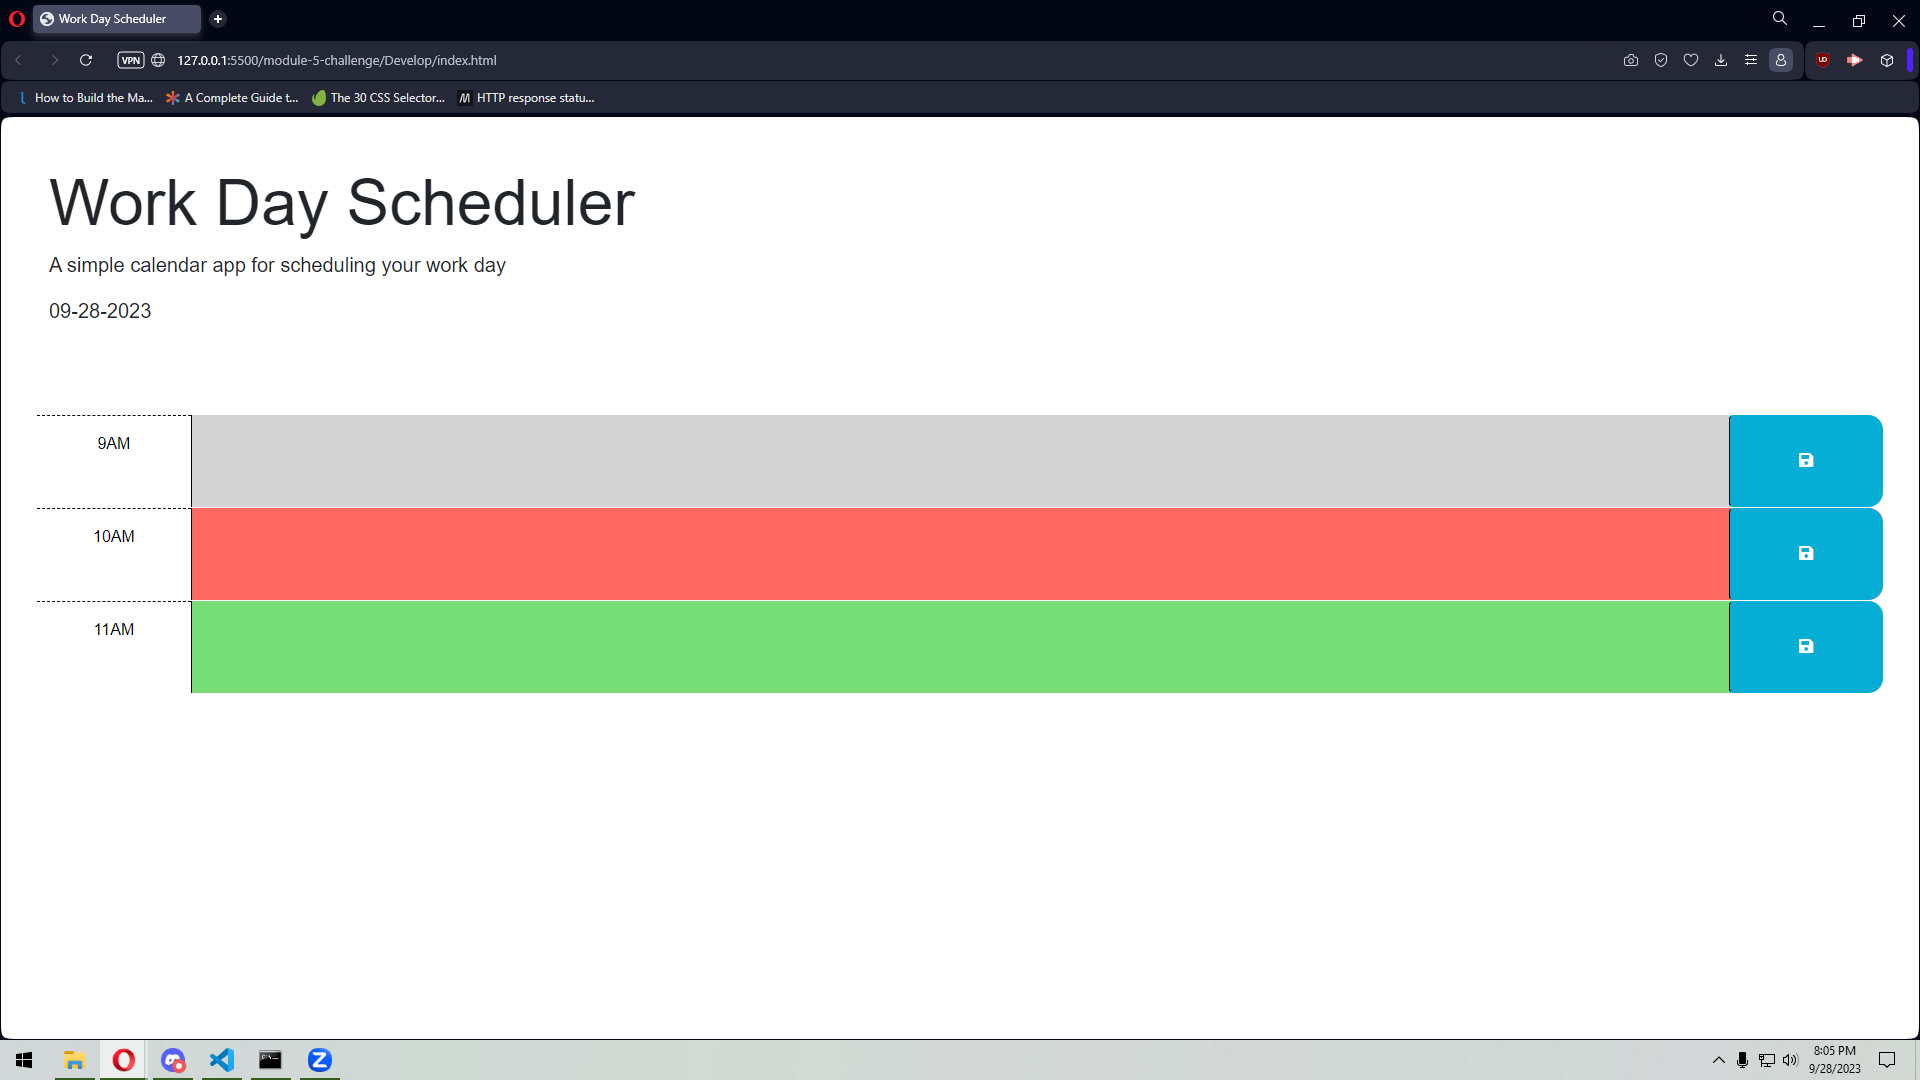
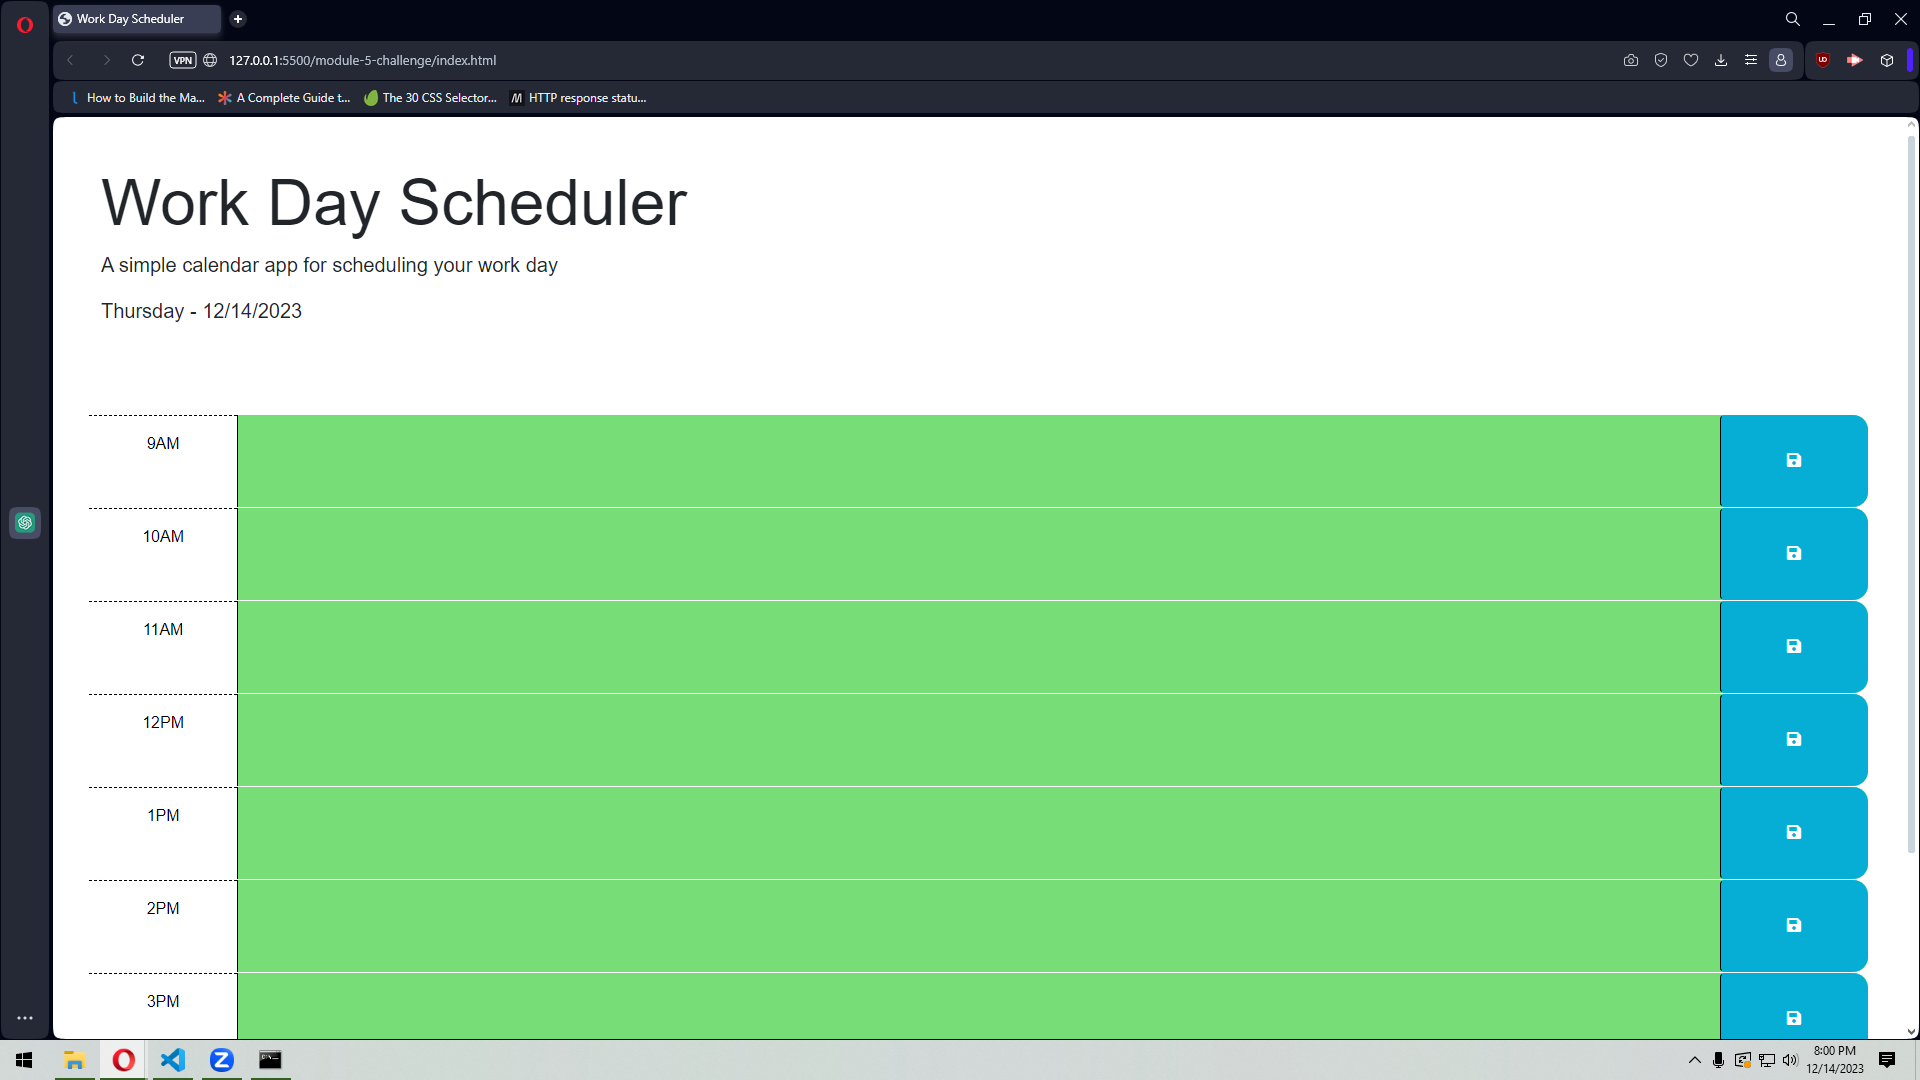
changed screenshot and edited deployment link

diff --git a/README.md b/README.md
@@ -10,7 +10,7 @@ N/A
 
 ## Usage
 
-Deployment site: https://elijahsatten.github.io/module-5-challenge/
+Deployment site: https://elijahsatten.github.io/work-day-scheduler/
 
 ![Screenshot](assets/images/screenshot.png)
 
